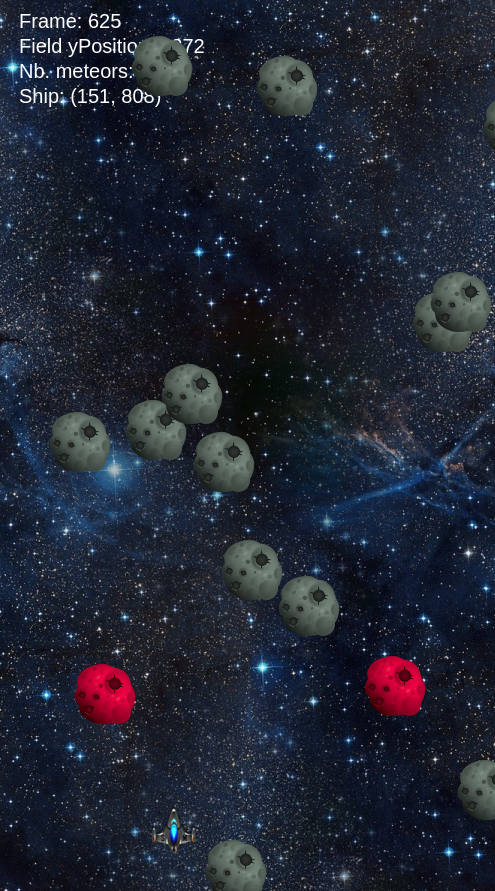
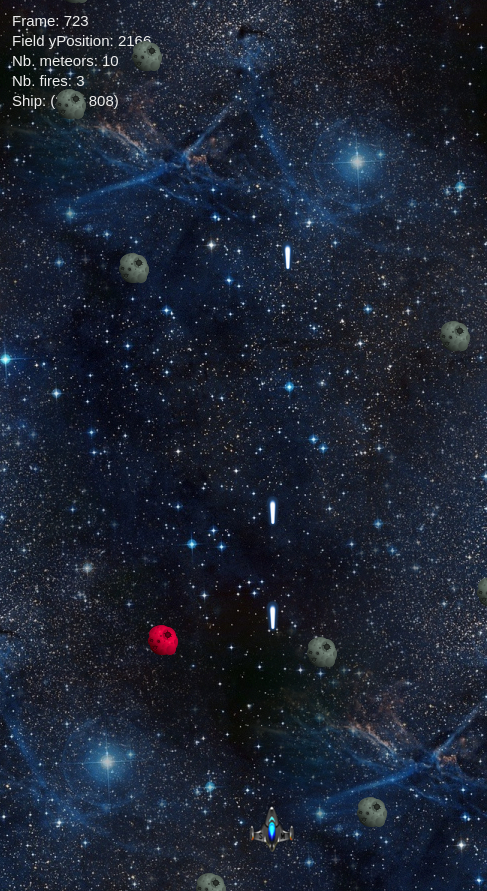
wip

diff --git a/lib/space-invader.js b/lib/space-invader.js
@@ -13,19 +13,23 @@ const SpaceInvader = (function () {
   const DEFAULT_SHIP_X = Math.floor(DEFAULT_FIELD_WIDTH/2 - DEFAULT_SHIP_WIDTH/2);
   const DEFAULT_SHIP_Y = Math.floor(3.7 * DEFAULT_FIELD_HEIGHT/4 - DEFAULT_SHIP_HEIGHT/2);
 
-  const DEFAULT_METEOR_WIDTH = 64;
-  const DEFAULT_METEOR_HEIGHT = 64;
+  const DEFAULT_METEOR_WIDTH = 32;
+  const DEFAULT_METEOR_HEIGHT = 32;
   const METEOR_GENERATION_PROB = 0.08;
-  const DEFAULT_METEOR_Y = -200;
+  const DEFAULT_METEOR_Y = -DEFAULT_METEOR_HEIGHT;
   const MAX_METEORS = 10;
   const DEFAULT_METEOR_MOVE_STEP = 4;
   const FAST_METEOR_PROB = 0.25;
-  const FAST_METEOR_MOVE_STEP = 8;
+  const FAST_METEOR_MOVE_STEP = 10;
+
+  const DEFAULT_FIRE_WIDTH = 32;
+  const FIRE_MOVE_STEP = 15;
 
   const Action = {
     DO_NOTHING: 'do_nothing',
     MOVE_LEFT: 'move_left',
     MOVE_RIGHT: 'move_right',
+    FIRE: 'fire',
     PAUSE: 'pause'
   };
 
@@ -43,6 +47,8 @@ const SpaceInvader = (function () {
     yPosition: 0
   });
 
+  const ShipFire = Immutable.Record({ x: 0, y: 0 });
+
   const Ship = Immutable.Record({
     width: DEFAULT_SHIP_WIDTH,
     height: DEFAULT_SHIP_HEIGHT,
@@ -55,6 +61,7 @@ const SpaceInvader = (function () {
     field: new Field,
     ship: new Ship,
     meteors: [],
+    fires: [],
     paused: false
   });
 
@@ -66,7 +73,10 @@ const SpaceInvader = (function () {
     const MAX_SHIP_X = initialState.field.width - initialState.ship.width;
 
     const meteorIntoTheField = meteor => meteor.y <= initialState.field.height;
+    const fireIntoTheField = fire => fire.y >= 0;
+
     const moveMeteor = meteor => meteor.set('y', meteor.y + (meteor.fast ? FAST_METEOR_MOVE_STEP : DEFAULT_METEOR_MOVE_STEP));
+    const moveFire = fire => fire.set('y', fire.y - FIRE_MOVE_STEP);
 
     const GameFrame = (action, previousState) => {
 
@@ -75,7 +85,7 @@ const SpaceInvader = (function () {
       if (action !== Action.PAUSE && _previousState.paused)
         return _previousState;
 
-      let currentState = _previousState
+      const currentState = _previousState
         .set('field', _previousState.field.set('yPosition', _previousState.field.yPosition + BACKGROUND_MOVE_STEP))
         .set('frameNumber', _previousState.frameNumber + 1);
 
@@ -91,17 +101,24 @@ const SpaceInvader = (function () {
         meteors = meteors.concat(meteor);
       }
       meteors = meteors.map(moveMeteor);
-      currentState = currentState.set('meteors', meteors);
+
+      let fires = currentState.fires.filter(fireIntoTheField).map(moveFire);
 
       let ship = currentState.ship;
       if (action === Action.MOVE_LEFT)
         ship = ship.set('x', Math.max(MIN_SHIP_X, ship.x - SHIP_MOVE_STEP));
       else if (action === Action.MOVE_RIGHT)
         ship = ship.set('x', Math.min(MAX_SHIP_X, ship.x + SHIP_MOVE_STEP));
+      else if (action === Action.FIRE)
+        fires = fires.concat(new ShipFire({
+          x: currentState.ship.x + Math.floor(currentState.ship.width - DEFAULT_FIRE_WIDTH)/2,
+          y: currentState.ship.y - Math.floor(currentState.ship.height/2)
+        }));
 
-      currentState = currentState.set('ship', ship);
-
-      return new GameState(currentState);
+      return new GameState(currentState
+        .set('ship', ship)
+        .set('fires', fires)
+        .set('meteors', meteors));
     };
 
     return {

diff --git a/lib/canvas-renderer.js b/lib/canvas-renderer.js
@@ -4,12 +4,12 @@
 
   const FRAME_TIMEOUT = 30;
 
-  const COLOR_WHITE = '#fff';
+  const COLOR_WHITE = '#eee';
   const COLOR_RED = '#ff0000';
 
-  const TEXT_MARGIN = 25;
+  const TEXT_MARGIN = 20;
 
-  const TEXT_FONT = '20px Arial';
+  const TEXT_FONT = '15px Arial';
 
   const FIELD_COLOR = '#fff';
   const SHIP_COLOR = '#ff0000';
@@ -23,6 +23,7 @@
   };
 
   const shipImage = createImage('ship.png');
+  const fireImage = createImage('fire.png');
   const metorImage = createImage('meteor.png');
   const metorFastImage = createImage('meteor-fast.png');
 
@@ -35,6 +36,9 @@
   };
 
   const drawShip = (canvas, ship) => canvas.drawImage(shipImage, ship.x, ship.y);
+
+  const drawFire = (canvas, fire) => canvas.drawImage(fireImage, fire.x, fire.y);
+  const drawFires = (canvas, fires) => fires.forEach(fire => drawFire(canvas, fire));
 
   const drawMeteor = (canvas, meteor) => canvas.drawImage(meteor.fast ? metorFastImage : metorImage, meteor.x, meteor.y);
   const drawMeteors = (canvas, meteors) => meteors.forEach(meteor => drawMeteor(canvas, meteor));
@@ -58,6 +62,7 @@
     canvas.fillText('Frame: ' + state.frameNumber, xRef, yRef);
     canvas.fillText('Field yPosition: ' + state.field.yPosition, xRef, yRef + ++textIndex*TEXT_MARGIN);
     canvas.fillText('Nb. meteors: ' + state.meteors.length, xRef, yRef + ++textIndex*TEXT_MARGIN);
+    canvas.fillText('Nb. fires: ' + state.fires.length, xRef, yRef + ++textIndex*TEXT_MARGIN);
     canvas.fillText('Ship: (' + state.ship.x + ', ' + state.ship.y + ')', xRef, yRef + ++textIndex*TEXT_MARGIN);
     if (state.paused) {
       canvas.fillStyle = COLOR_RED;
@@ -65,9 +70,20 @@
     }
   };
 
+  const keyToAction = keyCode => {
+    if (keyCode === 'Escape')
+      return SpaceInvader.Action.PAUSE;
+    if (keyCode === 'ArrowLeft')
+      return SpaceInvader.Action.MOVE_LEFT;
+    if (keyCode === 'ArrowRight')
+      return SpaceInvader.Action.MOVE_RIGHT;
+    if (keyCode === 'Space')
+      return SpaceInvader.Action.FIRE;
+    return SpaceInvader.Action.DO_NOTHING;
+  };
+
   const startGame = () => {
 
-    const Action = SpaceInvader.Action;
     const game = new SpaceInvader.Game;
 
     const drawFrame = (canvas, state) => {
@@ -76,6 +92,7 @@
       writeFrameInfos(canvas, state);
       drawMeteors(canvas, state.meteors);
       drawShip(canvas, state.ship);
+      drawFires(canvas, state.fires);
     };
 
     const canvas = createCanvas(game.initialState.field);
@@ -88,14 +105,7 @@
       const keyCode = keyPool.pop();
       keyPool.splice(0, keyPool.length);
 
-      let action = Action.DO_NOTHING;
-      if (keyCode === 'Escape')
-        action = Action.PAUSE;
-      else if (keyCode === 'ArrowLeft')
-        action = Action.MOVE_LEFT;
-      else if (keyCode === 'ArrowRight')
-        action = Action.MOVE_RIGHT;
-
+      const action = keyToAction(keyCode);
       const currentState = game.nextFrame(action, previousState);
       //console.log(keyCode, action, currentState);
 

diff --git a/README.md b/README.md
@@ -13,8 +13,8 @@ To test it :
 ## Todo
 
 - Extract configuration stuff from the lib
-- Create the meteors
-- Detect the collisions between meteors/ship
-- Make the ship able to fire 
+- Create point counter
+- Add the level notion
+- Make collisions (meteors/fire/ship)
 
 ![alt Screenshot](https://github.com/bcolucci/spaceinvader/blob/master/assets/screenshot.png "Screenshot")
